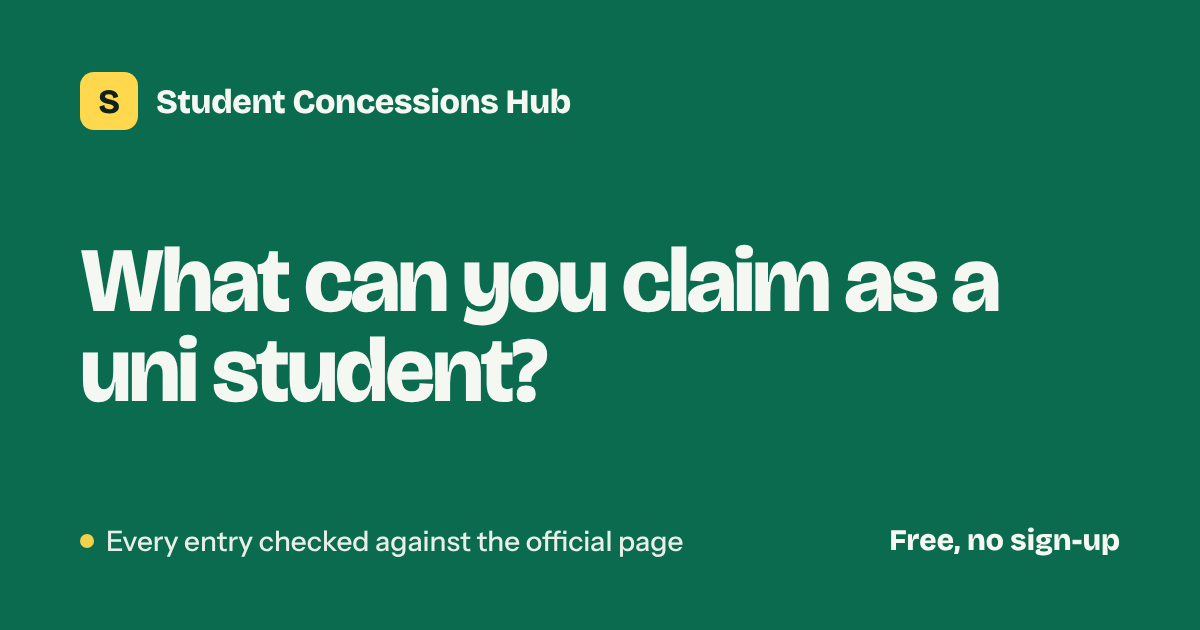
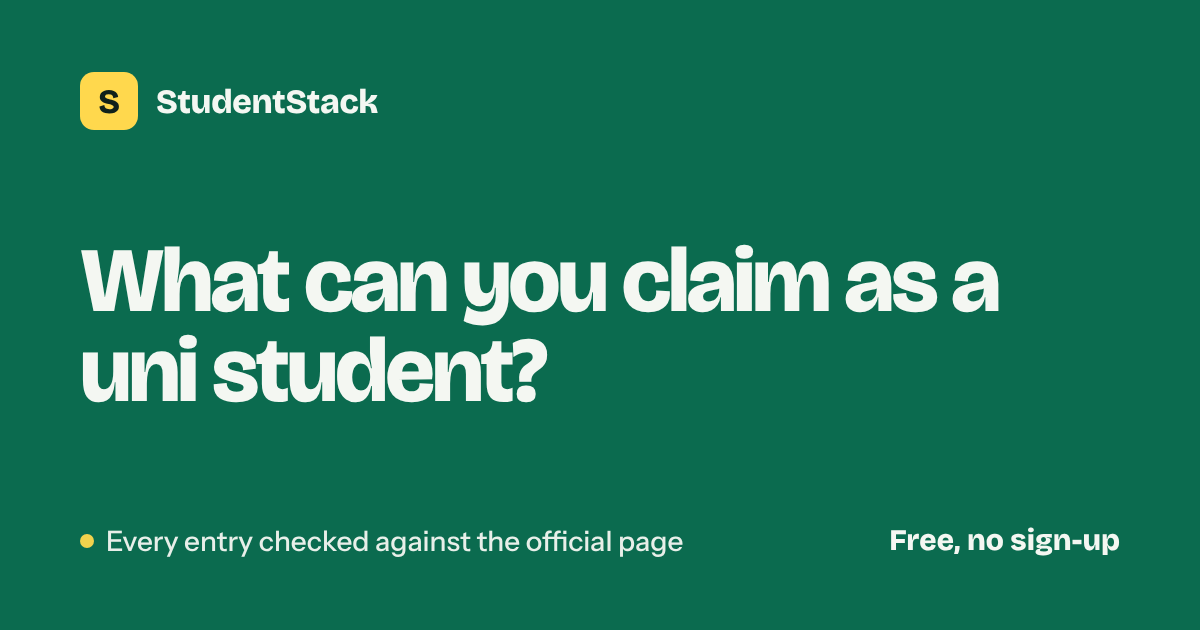
Rebrand to StudentStack and move to studentstack.com.au
Claude-Session: https://claude.ai/code/session_012qD4R2ehLAFK3ivTe9oxXy

Changed region(s): [[0.2158, 0.1206, 0.4933, 0.181]]

diff --git a/README.md b/README.md
@@ -1,4 +1,4 @@
-# Student Concessions Hub
+# StudentStack (studentstack.com.au)
 
 A static website listing concessions for Australian uni students. Every entry is checked against an official source. It has no framework and no dependencies, so the only thing you need is Node 18 or newer.
 
